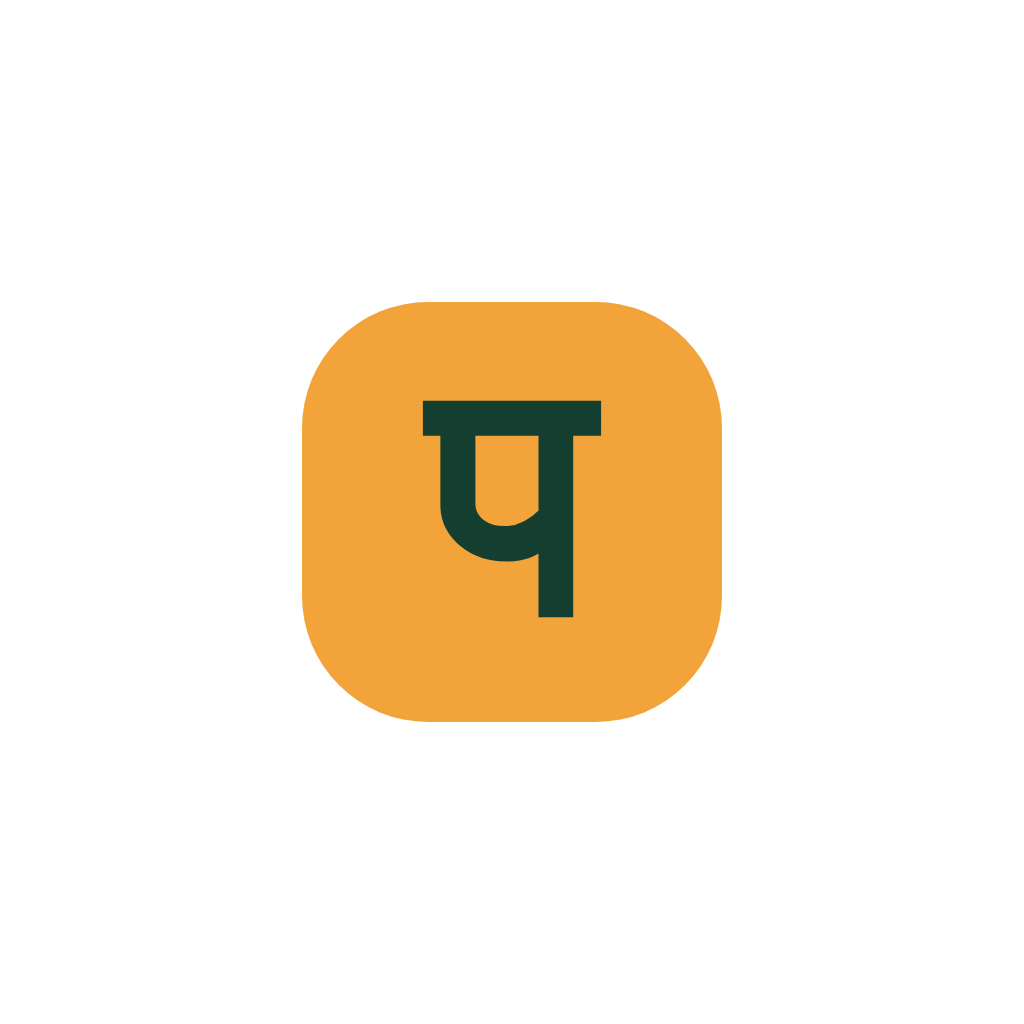
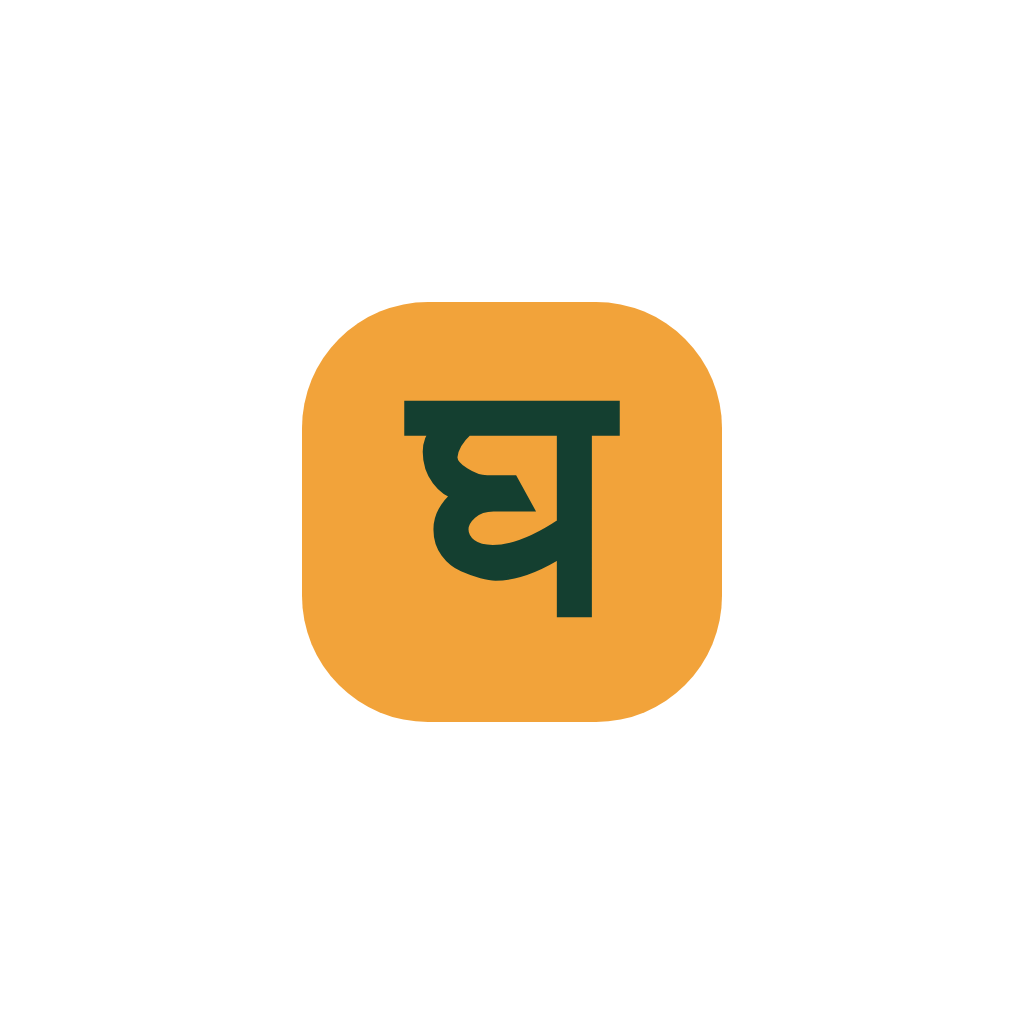
Rename app to Ghar Loop
- App name, web title, Home Screen name and bundle IDs (com.gharloop.app)
- New logo: marigold घ mark with ghar/loop wordmark, regenerated app icons
- Sign-in headline 'Welcome home.'; all user-facing text says Ghar Loop

Claude-Session: https://claude.ai/code/session_01Ltu2nbwzpjqcjgyuiyuH2u

Changed region(s): [[0.375, 0.375, 0.625, 0.625]]

diff --git a/scripts/web-meta.js b/scripts/web-meta.js
@@ -1,5 +1,5 @@
 // Runs after `expo export -p web`. Adds the tags iPhones need so that
-// "Add to Home Screen" opens Padosi full-screen like a normal app.
+// "Add to Home Screen" opens Ghar Loop full-screen like a normal app.
 const fs = require('fs');
 const path = require('path');
 
@@ -11,7 +11,7 @@ const tags = [
   '<meta name="apple-mobile-web-app-capable" content="yes">',
   '<meta name="mobile-web-app-capable" content="yes">',
   '<meta name="apple-mobile-web-app-status-bar-style" content="default">',
-  '<meta name="apple-mobile-web-app-title" content="Padosi">',
+  '<meta name="apple-mobile-web-app-title" content="Ghar Loop">',
   '<meta name="theme-color" content="#1d5c45">',
   '<link rel="apple-touch-icon" href="/apple-touch-icon.png">',
   '<link rel="manifest" href="/manifest.json">',
@@ -20,7 +20,7 @@ const tags = [
 html = html
   .replace(/<meta name="viewport"[^>]*>/, '<meta name="viewport" content="width=device-width, initial-scale=1, viewport-fit=cover">')
   .replace('</head>', `${tags}\n</head>`)
-  .replace(/<title>.*?<\/title>/, '<title>Padosi</title>');
+  .replace(/<title>.*?<\/title>/, '<title>Ghar Loop</title>');
 fs.writeFileSync(file, html);
 
 fs.copyFileSync(path.join(__dirname, '..', 'assets', 'icon.png'), path.join(dist, 'apple-touch-icon.png'));
@@ -28,8 +28,8 @@ fs.copyFileSync(path.join(__dirname, '..', 'assets', 'icon.png'), path.join(dist
 fs.writeFileSync(
   path.join(dist, 'manifest.json'),
   JSON.stringify({
-    name: 'Padosi',
-    short_name: 'Padosi',
+    name: 'Ghar Loop',
+    short_name: 'Ghar Loop',
     start_url: '/',
     display: 'standalone',
     background_color: '#f6f4ee',

diff --git a/components/Logo.tsx b/components/Logo.tsx
@@ -1,14 +1,16 @@
 import { StyleSheet, Text, View } from 'react-native';
 import { colors, font } from '@/lib/theme';
 
-/** Marigold "प" mark + padosi wordmark (white, for green backgrounds). */
+/** Marigold "घ" mark + "gharloop" wordmark (for green backgrounds). */
 export function Logo({ size = 40 }: { size?: number }) {
   return (
     <View style={s.row}>
       <View style={[s.mark, { width: size, height: size, borderRadius: size * 0.33 }]}>
-        <Text style={[s.letter, { fontSize: size * 0.55 }]}>प</Text>
+        <Text style={[s.letter, { fontSize: size * 0.58 }]}>घ</Text>
       </View>
-      <Text style={[s.word, { fontSize: size * 0.55 }]}>padosi</Text>
+      <Text style={[s.word, { fontSize: size * 0.55 }]}>
+        ghar<Text style={s.loop}>loop</Text>
+      </Text>
     </View>
   );
 }
@@ -19,4 +21,5 @@ const s = StyleSheet.create({
   // Devanagari letter: Inter has no Devanagari, so this one uses the system font.
   letter: { color: colors.greenDark, fontWeight: '900', marginTop: -2 },
   word: { ...font('800'), color: colors.white, letterSpacing: -0.5 },
+  loop: { color: colors.marigold },
 });

diff --git a/app/(auth)/sign-in.tsx b/app/(auth)/sign-in.tsx
@@ -31,7 +31,7 @@ export default function SignIn() {
 
   return (
     <Screen bleed>
-      <Brand title={'Welcome back,\npadosi.'} subtitle="Your society's notices, issues, visitors and neighbours — in one place." />
+      <Brand title={'Welcome\nhome.'} subtitle="Your society's notices, issues, visitors and neighbours — in one place." />
       <View style={s.body}>
         <Card style={s.card}>
           <Input label="Email" value={email} onChangeText={setEmail} autoCapitalize="none" keyboardType="email-address" autoComplete="email" placeholder="you@example.com" />
@@ -40,7 +40,7 @@ export default function SignIn() {
           <Button title="Sign in" onPress={submit} loading={busy} full style={{ marginTop: 20 }} />
         </Card>
         <Link href="/sign-up" style={s.link}>
-          New to Padosi? <Text style={s.linkBold}>Create an account</Text>
+          New to Ghar Loop? <Text style={s.linkBold}>Create an account</Text>
         </Link>
         <Fine>Only verified residents of your society can see its information.</Fine>
       </View>

diff --git a/app/(tabs)/index.tsx b/app/(tabs)/index.tsx
@@ -36,7 +36,7 @@ export default function Home() {
 
   const name = profile?.full_name || 'Neighbour';
   const flat = [profile?.tower, profile?.flat].filter(Boolean).join('-');
-  const place = profile?.society ? [profile.society.name, flat].filter(Boolean).join(' · ') : 'Padosi platform';
+  const place = profile?.society ? [profile.society.name, flat].filter(Boolean).join(' · ') : 'Ghar Loop platform';
 
   return (
     <Screen bleed onRefresh={reload} refreshing={refreshing}>
@@ -79,7 +79,7 @@ export default function Home() {
           title="A quiet week so far"
           text="Open issues, upcoming activities and new home businesses from your society will appear here."
         />
-        <Fine>Padosi · made for neighbours</Fine>
+        <Fine>Ghar Loop · made for neighbours</Fine>
       </View>
     </Screen>
   );

diff --git a/app/module/[name].tsx b/app/module/[name].tsx
@@ -7,7 +7,7 @@ import type { Tint } from '@/lib/theme';
 type Page = { icon: IconName; tint: Tint; title: string; tagline: string; points?: string[] };
 
 const extra: Record<string, Page> = {
-  guidelines: { icon: 'book-outline', tint: 'blue', title: 'Community guidelines', tagline: 'How we keep Padosi friendly and useful.' },
+  guidelines: { icon: 'book-outline', tint: 'blue', title: 'Community guidelines', tagline: 'How we keep Ghar Loop friendly and useful.' },
   grievance: { icon: 'mail-outline', tint: 'rose', title: 'Report a problem', tagline: 'Contact the Grievance Officer.' },
   privacy: { icon: 'lock-closed-outline', tint: 'slate', title: 'Privacy & data', tagline: 'What we store and why.' },
 };

diff --git a/components/SocietyPicker.tsx b/components/SocietyPicker.tsx
@@ -29,7 +29,7 @@ export function SocietyPicker({ value, onChange }: Props) {
   if (error) return <View style={s.gap}><ErrorState message={error} onRetry={load} /></View>;
   if (!items) return <Loading label="Loading societies…" />;
   if (!items.length)
-    return <View style={s.gap}><EmptyState icon="business-outline" title="No societies yet" text="Ask the Padosi team to add your society first." /></View>;
+    return <View style={s.gap}><EmptyState icon="business-outline" title="No societies yet" text="Ask the Ghar Loop team to add your society first." /></View>;
 
   return (
     <View style={[s.gap, s.list]}>

diff --git a/app/(auth)/sign-up.tsx b/app/(auth)/sign-up.tsx
@@ -53,7 +53,7 @@ export default function SignUp() {
 
   return (
     <Screen bleed>
-      <Brand title={'Join your\nsociety on Padosi'} subtitle="Takes a minute. Your Society Admin approves new residents." />
+      <Brand title={'Join your\nsociety on Ghar Loop'} subtitle="Takes a minute. Your Society Admin approves new residents." />
       <View style={s.body}>
         <Card style={s.card}>
           <StepHeader n={1} title="About you" />

diff --git a/lib/theme.ts b/lib/theme.ts
@@ -1,6 +1,6 @@
 import { Platform, type ViewStyle } from 'react-native';
 
-// Padosi design system v2: deep "neem" green for trust,
+// Ghar Loop design system v2: deep "neem" green for trust,
 // marigold for warmth, and a soft cream background instead of cold grey.
 export const colors = {
   // Brand

diff --git a/app/(tabs)/profile.tsx b/app/(tabs)/profile.tsx
@@ -96,7 +96,7 @@ export default function ProfileTab() {
       </Card>
 
       <Button title="Sign out" variant="danger" onPress={logout} full />
-      <Fine>Padosi · version 1.0</Fine>
+      <Fine>Ghar Loop · version 1.0</Fine>
     </Screen>
   );
 }

diff --git a/CLAUDE.md b/CLAUDE.md
@@ -1,7 +1,9 @@
-# Project: Padosi (housing society community app, India)
+# Project: Ghar Loop (housing society community app, India)
+
+The product name is **Ghar Loop** everywhere users can see it. ("Padosi" was an early working name.)
 
 Android app for residents, guards and admins of a housing society.
-Design: Padosi design system v2 (see `lib/theme.ts`). `reference/prototype.html` is the original
+Design: Ghar Loop design system v2 (see `lib/theme.ts`). `reference/prototype.html` is the original
 feature reference only; the visual design has moved on from it.
 
 ## Stack
@@ -21,7 +23,7 @@ resident, guard, society_admin, super_admin
 - Shapes: 20px card radius, 14px buttons/inputs, pill badges, 50px tall buttons.
 - Each module has its own pastel tint (`tints` in lib/theme.ts) used for its icon chip.
 - Big bold page titles (30px), green hero panel with soft circles on Home and login screens.
-- Logo: marigold rounded square with "प" + "padosi" wordmark (components/Logo.tsx).
+- Logo: marigold rounded square with "घ" + "ghar" white / "loop" marigold wordmark (components/Logo.tsx).
 - Bottom tabs: Home, Resolve, Community, Activities, Profile (active tab = soft green pill).
 - Module list (icons, tints, copy) lives in lib/modules.ts.
 

diff --git a/README.md b/README.md
@@ -1,4 +1,4 @@
-# Padosi — housing society community app
+# Ghar Loop — housing society community app
 
 Expo (React Native + TypeScript + Expo Router) with Supabase. Runs as an Android/iOS app in Expo Go
 and as a website that can be added to an iPhone's Home Screen.
